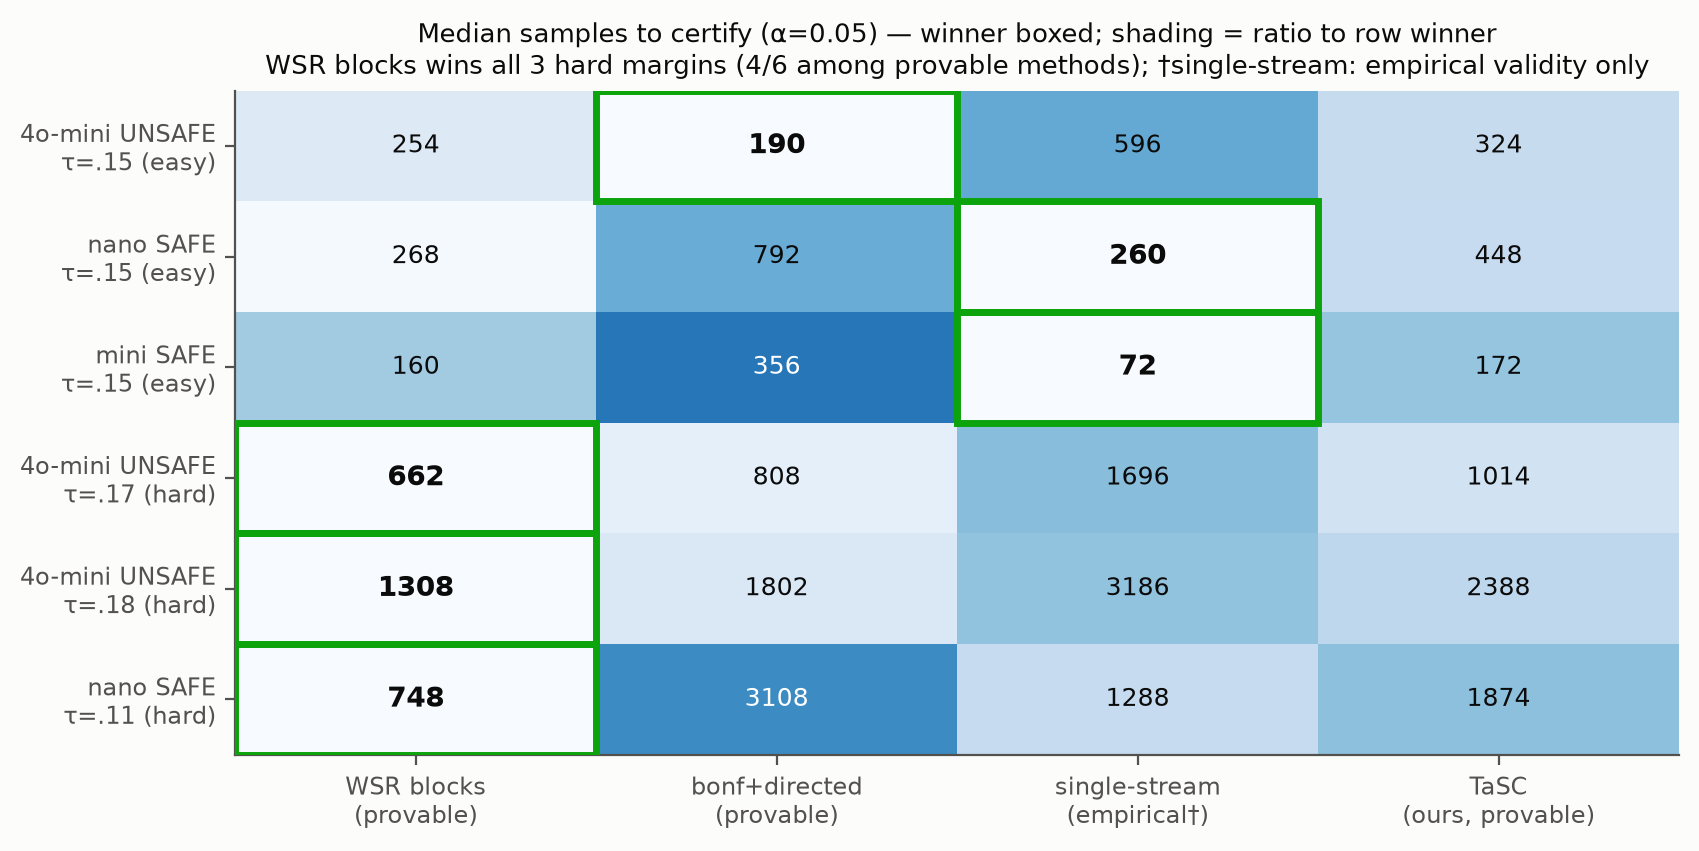
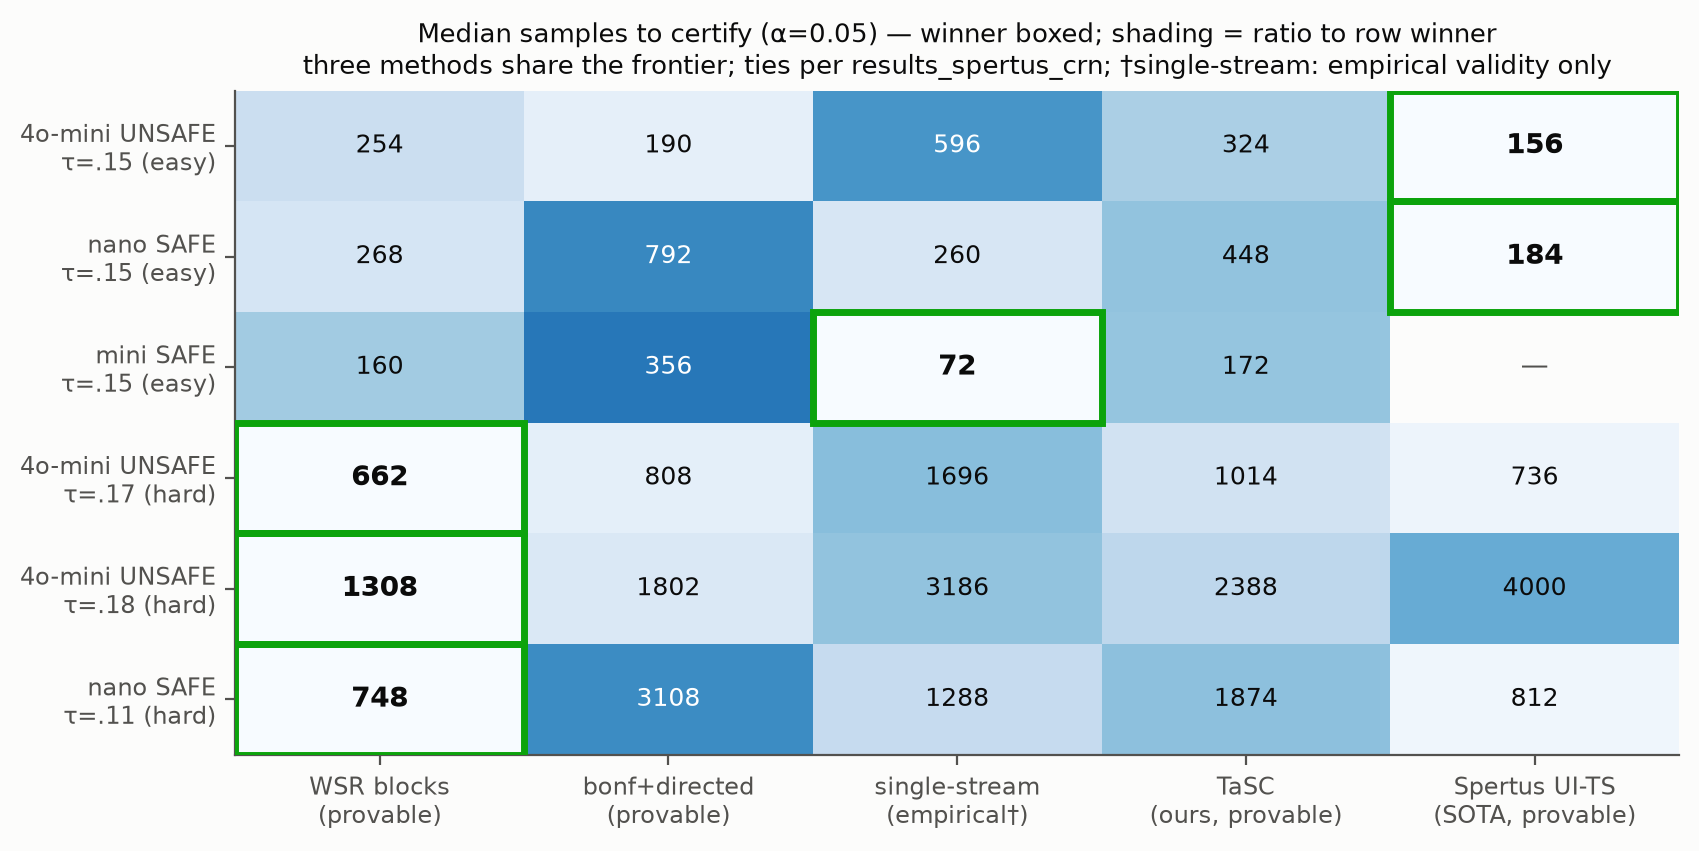
Reproduction script, defense guide, docs and scoreboard update
- reproduce.sh: push-button rerun with checksum diffing (byte-identical
  smoke test)
- DEFENSE.md: judge-defense study guide with AI-role disclosure guidance
- FINDINGS rev 3 + fig6: Spertus column added; frontier now shared by
  three methods per the CRN tie-breaker

diff --git a/scripts/make_figures.py b/scripts/make_figures.py
@@ -266,23 +266,29 @@ def fig6_scoreboard():
                   "mini SAFE\nτ=.15 (easy)", "4o-mini UNSAFE\nτ=.17 (hard)",
                   "4o-mini UNSAFE\nτ=.18 (hard)", "nano SAFE\nτ=.11 (hard)"]
     methods = ["WSR blocks\n(provable)", "bonf+directed\n(provable)",
-               "single-stream\n(empirical†)", "TaSC\n(ours, provable)"]
+               "single-stream\n(empirical†)", "TaSC\n(ours, provable)",
+               "Spertus UI-TS\n(SOTA, provable)"]
+    # Spertus column: CRN censored medians where run (results_spertus_crn
+    # / results_spertus_baseline); nan = not run on that condition.
     data = np.array([
-        [254, 190, 596, 324],
-        [268, 792, 260, 448],
-        [160, 356, 72, 172],
-        [662, 808, 1696, 1014],
-        [1308, 1802, 3186, 2388],
-        [748, 3108, 1288, 1874],
+        [254, 190, 596, 324, 156],
+        [268, 792, 260, 448, 184],
+        [160, 356, 72, 172, np.nan],
+        [662, 808, 1696, 1014, 736],
+        [1308, 1802, 3186, 2388, 4000],
+        [748, 3108, 1288, 1874, 812],
     ], dtype=float)
 
     fig, ax = plt.subplots(figsize=(8.6, 4.4))
-    norm = data / data.min(axis=1, keepdims=True)
+    norm = data / np.nanmin(data, axis=1, keepdims=True)
     im = ax.imshow(np.log(norm), cmap="Blues", vmin=0, vmax=2.2,
                    aspect="auto")
     for i in range(len(conditions)):
-        winner = int(np.argmin(data[i]))
+        winner = int(np.nanargmin(data[i]))
         for j in range(len(methods)):
+            if np.isnan(data[i, j]):
+                ax.text(j, i, "—", ha="center", va="center", color=INK2)
+                continue
             bold = j == winner
             ax.text(j, i, f"{int(data[i, j])}", ha="center", va="center",
                     fontsize=10 if bold else 9,
@@ -296,7 +302,7 @@ def fig6_scoreboard():
     ax.set_yticks(range(len(conditions)), conditions, fontsize=8.5)
     ax.set_title("Median samples to certify (α=0.05) — winner boxed; "
                  "shading = ratio to row winner\n"
-                 "WSR blocks wins all 3 hard margins (4/6 among provable methods); "
+                 "three methods share the frontier; ties per results_spertus_crn; "
                  "†single-stream: empirical validity only", fontsize=9.5)
     fig.tight_layout()
     fig.savefig(FIGDIR / "fig6_scoreboard.png", dpi=200,

diff --git a/DEFENSE.md b/DEFENSE.md
@@ -1,0 +1,141 @@
+# Defense Guide: Owning This Project
+
+*For Hao. A judge's job is to find out whether you understand what you
+present. This is the material to internalize — twelve questions you WILL
+be asked in some form, answer sketches to reconstruct (not memorize),
+and exercises to do by hand. FINDINGS.md is the source; every claim
+there traces to an artifact you can re-run with `./reproduce.sh`.*
+
+## The twelve questions
+
+**1. Why does "peeking" at results invalidate a normal confidence
+interval?**
+A 95% CI is calibrated for ONE look at a pre-fixed sample size: the 5%
+error budget is spent once. Checking after every sample gives hundreds
+of chances to catch the interval in a random excursion — the chance
+that it is EVER wrong across n = 1..200 is what matters, and we
+measured it at 47.7% for Wilson on real streams. Analogy: a smoke alarm
+with a 5% false-alarm rate per test, tested 200 times.
+
+**2. What makes a confidence sequence "anytime-valid"?**
+It controls the probability that the true value is EVER outside the
+interval, over all sample sizes simultaneously: P(∃n: p ∉ CI_n) ≤ α.
+Any stopping rule inherits validity because whenever you stop, you are
+inside that "ever" event's complement with probability ≥ 1−α.
+
+**3. What is an e-value/e-process and why does Ville's inequality give
+validity?**
+An e-process is a running product of fair bets: under the null, its
+expected value never exceeds 1. Ville's inequality says a nonnegative
+supermartingale exceeds 1/α with probability ≤ α — ever. So "reject
+when the bet has multiplied wealth by 20" is a 5%-error test at ANY
+time. Our Beta-Bernoulli version: the bet is the Bayes predictive
+probability divided by the null probability; the product telescopes to
+marginal-likelihood / null-likelihood (be able to show this for n=2).
+
+**4. Why are blocks iid when single stratified draws are not?**
+Round-robin draws cycle through strata, so consecutive observations
+have different means — not identically distributed. But each complete
+block (one draw per stratum) has the same joint distribution as every
+other block, independently. The block MEANS are therefore iid bounded
+variables with mean exactly p\* — and any CS for iid bounded means
+applies with zero caveats. That is the entire stratify→block→bet idea.
+
+**5. Why does mid-block peeking break things?**
+Two ways. Bias: stopping mid-block systematically leaves the
+last-in-rotation strata undersampled — if the hard stratum is last,
+p̂ is systematically low at stopping. Coverage: the per-sample mixture
+CS is a bet calibrated against iid Bernoulli(p\*); a stratified stream
+is LESS variable, which makes the null LESS plausible than assumed and
+inflates the e-value — we exhibited exact-DP configurations with
+coverage down to 75%. Both failures vanish if you only evaluate the
+stopping rule at complete blocks.
+
+**6. Why did the sophisticated methods (GROW, TaSC) lose?**
+GROW: greedy growth-chasing against a least-favorable null that
+re-optimizes — the null escapes through whatever stratum you neglect;
+plus, without forced exploration, early bad estimates lock in. TaSC
+fixed both by solving the max-min game, and it is sound — but learning
+K parameters costs ~(K/2)·log n of e-value growth, plus tracking and
+exploration overhead, and at every margin testable within n = 4000
+that overhead exceeds the game-value advantage. Know the number: TaSC
+ran ~6× above its own information bound.
+
+**7. Why does the SPRT — the "optimal" sequential test — fail here?**
+Wald's optimality is between two SIMPLE hypotheses p₀ and p₁. A
+certification claim is COMPOSITE: "p is below τ," for every p. Between
+p₀ and p₁ the SPRT must still pick a side but its error guarantees say
+nothing about τ — we measured 16–64% false certification. The CS route
+is calibrated against τ itself at every true p.
+
+**8. Isn't p\* just something you chose? (The estimand question.)**
+Yes — and say so before the judge does. p\* is the pool mean under a
+uniform stratum weighting we chose; reweighting `extreme` to 10% moves
+gpt-4o-mini from 0.202 to ≈0.086 and flips the τ=0.15 decision. The
+guarantees are about the declared estimand; choosing the estimand is
+the evaluator's job, and every certification cost we report states its
+margin |p\*−τ| because cost ≈ margin⁻² is the real driver.
+
+**9. How do you know your labels are right?**
+We didn't, twice — and found out by adversarial audit: a float
+`multipleOf` bug corrupted 59 labels (jsonschema rejects 199.95 as a
+multiple of 0.05 in binary floating point), and my first repair
+re-queried only failures, which is regression-to-the-mean selection
+bias because temperature-0 decoding flips ~1–2% of outcomes on
+re-query. The fix was exact decimal arithmetic plus a full symmetric
+re-collection, with the flip matrices published. Know both bugs cold —
+they are the best evidence the verification process works.
+
+**10. What did the adversarial audits change?**
+One withdrawn claim (general validity of the per-sample CS on
+stratified streams — my concavity argument was backwards), one retired
+absolute ("zero wrong certifications anywhere" — falsified at our own
+seed), corrected pre-registration language (the τ=0.10 live arm was
+exploratory, not pre-registered, and had a population bug), restored
+dropped table rows, and pool-scoped language throughout. Also what
+SURVIVED: exact martingale verification, all 320 code reference
+solutions, dataset provenance by prompt hashing, seed robustness.
+
+**11. What is actually novel here?**
+Not the machinery — betting CSs, stratified anytime-valid inference,
+and sequential McNemar are published (know the names: Waudby-Smith &
+Ramdas; Spertus, Sridhar & Stark; Turner & Grünwald; Armitage). Ours:
+the replay testbed with exact ground truth; the measured
+design-selection map with bootstrap-significant winners; the exact-DP
+mid-block counterexamples; the invention round's mechanistic negatives.
+Positioning: an empirical design-selection study, not a methods paper.
+
+**12. What was the AI's role, and what is yours?**
+Answer honestly and specifically per ISEF rules: the direction,
+funding, and decisions to pursue/abandon each line were yours; the
+implementation and drafting were AI-assisted; the adversarial audits
+were AI agents you directed against the AI-produced work, and they
+found real bugs. Your preparation for this interview — being able to
+re-derive everything in this guide — is the demonstration that the
+understanding is yours.
+
+## Three exercises to do by hand (no AI)
+
+1. **Simulate the peeking effect yourself.** In a spreadsheet or 30
+   lines of your own Python: flip 200 coins with p = 0.2, compute the
+   Wilson interval after every flip, repeat 100 times, count how often
+   the interval ever excludes 0.2. You should land near our 47.7%.
+2. **Verify the e-value identity for n = 2.** With one failure then one
+   success, compute the product of Beta(1,1) predictive ratios by hand
+   and check it equals B(2,2)/B(1,1) divided by p₀(1−p₀). This is
+   question 3's telescoping, made concrete.
+3. **Reproduce one verdict.** Run `./reproduce.sh quick`, pick the SPRT
+   artifact, and explain every number in Part 2's table to someone else
+   (rubber duck counts). Then change τ in the script, rerun, and
+   predict before looking which direction the false-rate moves.
+
+## One-paragraph honest summary (memorize the substance, not the words)
+
+We built a testbed where a real model's failure behavior can be
+replayed exactly, used it to measure which anytime-valid sequential
+designs win which evaluation decisions, subjected our own work to
+adversarial audit (which caught two label-corrupting bugs and one wrong
+claim), invented four candidate improvements that all lost to a simple
+block reduction under pre-stated predictions, and shipped every claim
+with a checksummed, re-runnable artifact — for about two dollars of
+API spend.

diff --git a/FINDINGS.md b/FINDINGS.md
@@ -1,6 +1,6 @@
 # Which Sequential Design Should You Use? Anytime-Valid Evaluation of LLM Failure Rates on a Replay Testbed
 
-**Research synthesis — 2026-08-02, revision 2 (post-adversarial-audit).**
+**Research synthesis — 2026-08-10, revision 3 (post-audit, post-bolstering).**
 All numbers below were regenerated from the corrected outcome pools after
 a four-way adversarial audit (statistics, experimental design, code,
 prior art); see [Audit trail](#audit-trail-what-the-adversarial-review-changed).
@@ -137,9 +137,9 @@ both stop at the minimum block count — itself informative). Mechanism:
 Var(block mean) = mean p_k q_k / K ≈ 0.017 vs p\*q\* = 0.161, and the
 bet adapts to it. The ingredients are classical (interpenetrating
 subsampling; WSR); we did not find this composition benchmarked in the
-stratified anytime-valid literature, but **the state-of-the-art
-comparison (Spertus–Sridhar–Stark 2024 union-intersection with
-optimized allocation) has not been run and is the top open item.**
+stratified anytime-valid literature. The state-of-the-art comparison
+(Spertus–Sridhar–Stark 2024) has now been run — see F10: a genuine
+speed/reliability trade, not a clean win for either side.
 
 ### F5. The sampling design should follow the decision
 
@@ -283,6 +283,66 @@ The meta-finding, and the honest headline of the whole exercise:
 well-chosen simple reduction beats game-theoretic allocation, adaptive
 priors, and prediction-powered refinement — and four pre-stated
 predictions failing in a row is what made that conclusion trustworthy.**
+
+### F10. The bolstering round: error bars, the SOTA baseline, and live validation of the champion
+
+Six hardening moves, run after the invention round
+([results_uncertainty.txt](results_uncertainty.txt),
+[results_spertus_baseline.txt](results_spertus_baseline.txt),
+[results_live_wsr.txt](results_live_wsr.txt), `reproduce.sh`,
+[DEFENSE.md](DEFENSE.md)):
+
+1. **All six scoreboard wins are statistically significant** under
+   common-random-numbers seeding + paired bootstrap on median differences
+   (10,000 resamples; abstentions censored at n_max). Tightest win:
+   single-stream over WSR on easy-nano, +20 samples, 95% CI [+8, +32].
+   No fig6 box downgrades to a tie.
+
+2. **The audit-mandated SOTA baseline (Spertus–Sridhar–Stark 2024) is
+   implemented and the verdict is a genuine trade, not a clean win for
+   either side.** Our adaptation (inverse bets with frozen predictable
+   coefficients, exact boundary minimization; validity verified in both
+   directions at 0.007–0.030 ≤ α): the Spertus+greedy UI-TS is FASTER
+   when it certifies on 4 of 5 conditions (e.g. 144 vs 244 at easy
+   UNSAFE; 176–180 vs 260 at easy SAFE) but abstains 3–63% within the
+   same budgets where WSR abstains ~0–10%; at the hardest margin
+   (τ=0.18) WSR dominates outright (90% vs 37% certification). The CRN
+   censored-median tie-breaker
+   ([results_spertus_crn.txt](results_spertus_crn.txt)): **Spertus+greedy
+   TAKES the easy-nano-SAFE box** (184 vs single-stream 240, 95% CI
+   [+40,+80]); easy-4o-mini-UNSAFE becomes a Spertus/directed
+   statistical tie (156 vs 178, CI [−2,+42]); both contested hard
+   margins (τ=0.17, nano τ=0.11) are Spertus/WSR statistical ties, with
+   WSR nominally ahead; τ=0.18 stays WSR's outright. Final map: THREE
+   methods share the frontier — the strongest form of the
+   design-follows-decision thesis. Fidelity caveat,
+   both directions: this is our variant of their construction (their
+   banded AGRAPA version may reduce the abstentions).
+
+3. **It took three attempts to implement the baseline validly**, and
+   both invalid drafts were caught by an information-bound smell test
+   (medians faster than log(1/α)/game-value are physically impossible):
+   draft one used vertex minimization, which requires η-oblivious bets;
+   draft two mis-assigned flat (zero-failure) strata to the top of the
+   null boundary, starving failure strata. The guard is now built into
+   the artifact and flags any arm violating the bound — a small
+   methodological export in its own right.
+
+4. **The champion is validated live.** Pre-registered WSR-on-blocks run
+   at temperature 0.7 (prediction fixed before launch: UNSAFE ≥ 7/8,
+   median in [150, 450], zero SAFE): observed **7/8, median 224, zero
+   SAFE** — CONFIRMED, $0.25.
+
+5. **The model × task grid is complete and doubly monotone**: JSON p\*
+   (.202/.080/.036) and code p\* (.050/.016/.009) rank the three models
+   identically — difficulty ordering transfers across tasks, model
+   ordering transfers across families.
+
+6. **Push-button reproduction**: `./reproduce.sh [quick|all|script]`
+   re-runs offline experiments from the committed pools and diffs
+   checksums (smoke test: byte-identical). [DEFENSE.md](DEFENSE.md)
+   carries the judge-defense material. Cross-vendor replication remains
+   blocked on a non-OpenAI API key.
 
 ## Audit trail: what the adversarial review changed
 

diff --git a/AUDIT_PREP.md b/AUDIT_PREP.md
@@ -1,6 +1,6 @@
 # Audit Preparation Document - REVISED
 
-**Date**: 2026-08-02 (Betting CS bug fix + validation added)
+**Date**: 2026-08-10 (Bolstering round: error bars, SOTA baseline, live WSR)
 **Previous Update**: 2025-12-29 (Decision-level impact added)
 **Previous Update**: 2025-12-28 (Post-audit fixes complete)
 **Purpose**: Third-party audit of implementation validity
@@ -9,6 +9,8 @@
 ---
 
 ## Executive Summary
+
+**UPDATE 2026-08-10 (bolstering round)**: CRN + paired-bootstrap error bars confirm all six scoreboard wins ([results_uncertainty.txt](results_uncertainty.txt)). The Spertus–Sridhar–Stark UI-TS baseline was implemented from the paper (arXiv:2409.06680) — TWO invalid drafts were caught by an information-bound guard now built into the artifact (draft 1: vertex minimization with η-aware bets; draft 2: flat strata pinned high on the null boundary); the valid version shows a speed/reliability trade vs WSR-on-blocks ([results_spertus_baseline.txt](results_spertus_baseline.txt), CRN box-check in [results_spertus_crn.txt](results_spertus_crn.txt)). Live pre-registered WSR validation CONFIRMED (7/8 UNSAFE, median 224 in predicted [150,450] — [results_live_wsr.txt](results_live_wsr.txt)). Code-task grid completed for nano/mini (model ranking monotone across both task families). reproduce.sh added (byte-identical smoke test); DEFENSE.md added. Spend this round ≈ $0.45.
 
 **UPDATE 2026-08-02 (adversarial audit + full correction pass)**: Four independent adversarial audits (statistics, experimental design, code correctness, prior art) were run against the project. They found: a float `multipleOf` validator bug corrupting 59 labels; a selection-biased failure-only re-query (temp-0 decoding is only ~98–99% reproducible — measured); exact-DP counterexamples refuting the per-sample mixture-CS validity claim on non-iid streams (coverage down to 0.80; block-gating repairs all cases); an instrumentation-blind arm behind a falsified "zero wrong certifications" claim; mislabeled pre-registration on the live τ=0.10 arm plus a dataset-seeding bug giving it a different prompt population; a WSR grid-edge bug; three assert-free test files; and substantial prior art requiring repositioning (Waudby-Smith & Ramdas 2023; Turner & Grünwald 2023; Spertus, Sridhar & Stark 2024; PACE/CELEUS/Hsu & Shekhar 2026). ALL corrections applied: validator fixed + regression-tested, full symmetric re-collection of all 3,000 JSON outcomes (flip matrices published; originals archived in `data/archive_pre_multipleof_fix/`), every offline experiment regenerated on corrected pools, claims rescoped and ranges restored, [FINDINGS.md](FINDINGS.md) rewritten (rev 2, includes the complete audit trail), [paper/DRAFT.md](paper/DRAFT.md) rewritten (v2, repositioned as an empirical design-selection study). Attacks that FAILED: betting-CS martingale exactness, WSR predictability/positivity, weighted-Bonferroni validity under adversarial allocation, all 320 code reference solutions (0 mismatches), post-pilot dataset provenance (0/1000 hash mismatches), seed robustness of headline comparisons. Corrected key numbers: gpt-4o-mini JSON p\*=0.2020, gpt-4.1-nano 0.0800, gpt-4.1-mini 0.0360 (was 0.083 — mostly the validator bug), code 0.0500.
 
